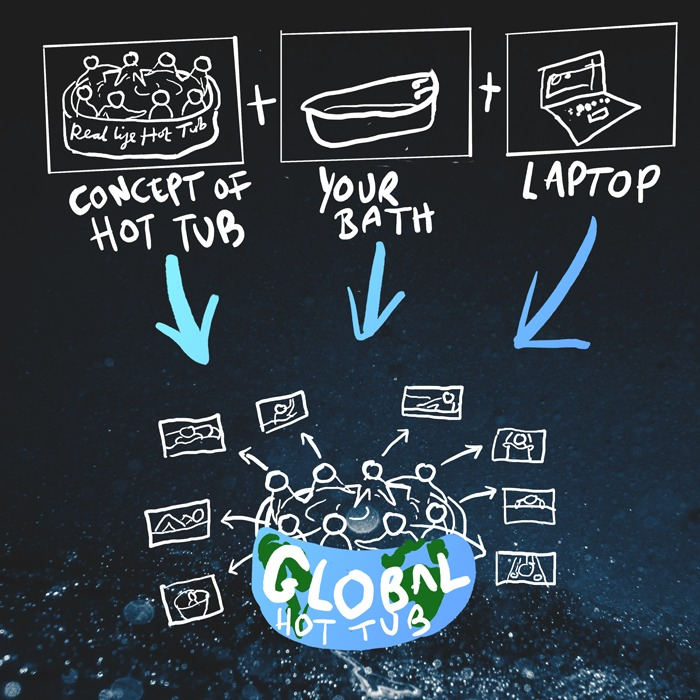
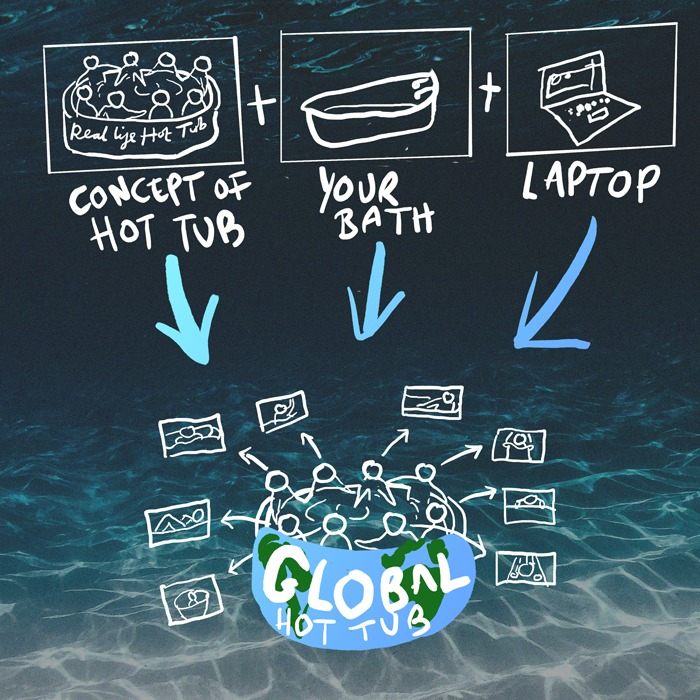
Add About Us page and new imagery

diff --git a/src/pages/SparkleSpaceMarketingPage/AboutUsPage/AboutUsPage.tsx b/src/pages/SparkleSpaceMarketingPage/AboutUsPage/AboutUsPage.tsx
@@ -1,0 +1,54 @@
+import React from "react";
+import "./AboutUsPage.scss";
+
+const AboutUsPage: React.FunctionComponent = () => {
+  return (
+    <div className="about-us-container">
+      <div>
+        <p className="hero-text">About the SparkleVerse team</p>
+        <p>
+          We’re an ever-expanding group of Burners and enthusiasts for
+          avant-garde online experiences. We met each other at criss-crossing
+          online parties, <a href="https://co-reality.co/">collectivised</a>,
+          and we’ve shared adventures, became friends, and have been organising
+          and helping others organise parties throughout the lockdown.
+        </p>
+        <p>
+          We invite you to join a fresh, and expanding SparkleVerse community as
+          we build our contribution to the virtual burn ready the beginning of
+          September..
+        </p>
+        <p>Leading on this project are Ed and Chris:</p>
+        <p>
+          <strong>Ed</strong> is a UK based tech entrepreneur, student of memory
+          palaces and amateur philosopher of parties. You can hear some of his
+          thoughts on Burning Man in{" "}
+          <a href="https://www.youtube.com/watch?v=4Ku4E2MXp-k">
+            this fragment
+          </a>{" "}
+          of a podcast recorded with Tim Ferriss. He’s helping with the product
+          and community sides of the project.
+        </p>
+        <p>
+          <strong>Chris</strong> is an Australian computer scientist who has
+          spent 15 years in tech, and has for the last seven years been working
+          as an Engineering Manager at two of Silicon Valley’s fastest growing
+          private startups. A serial burner and enthusiast for fun, he’s looking
+          after the tech platform.
+        </p>
+      </div>
+      <button
+        className="btn btn-primary btn-block btn-centered help-build-button"
+        onClick={() =>
+          window.open(
+            "https://docs.google.com/forms/d/e/1FAIpQLSeGGsafBOnO63GOiPjBhIdFaEqoM0xBSERdkTEqh3DrPteQvw/viewform"
+          )
+        }
+      >
+        Help build the SparkleVerse
+      </button>
+    </div>
+  );
+};
+
+export default AboutUsPage;

diff --git a/src/pages/SparkleSpaceMarketingPage/SparkleSpaceMarketingPage.tsx b/src/pages/SparkleSpaceMarketingPage/SparkleSpaceMarketingPage.tsx
@@ -4,6 +4,7 @@ import { MARKETING_PAGE_TABS } from "./constants";
 import "./SparkleSpaceMarketingPage.scss";
 import WelcomePage from "./WelcomePage";
 import FAQPage from "./FAQPage";
+import AboutUsPage from "./AboutUsPage";
 
 const SparkleSpaceMarketingPage = () => {
   const [selectedTab, setSelectedTab] = useState("welcome");
@@ -17,6 +18,7 @@ const SparkleSpaceMarketingPage = () => {
 
       {selectedTab === "welcome" && <WelcomePage />}
       {selectedTab === "faq" && <FAQPage />}
+      {selectedTab === "aboutUs" && <AboutUsPage />}
     </div>
   );
 };

diff --git a/src/pages/SparkleSpaceMarketingPage/constants.ts b/src/pages/SparkleSpaceMarketingPage/constants.ts
@@ -7,10 +7,10 @@ export const MARKETING_PAGE_TABS = [
     id: "faq",
     name: "FAQ",
   },
-  {
-    id: "partyExamples",
-    name: "Party examples",
-  },
+  // {
+  //   id: "partyExamples",
+  //   name: "Party examples",
+  // },
   {
     id: "aboutUs",
     name: "About us",

diff --git a/src/pages/SparkleSpaceMarketingPage/AboutUsPage/AboutUsPage.scss b/src/pages/SparkleSpaceMarketingPage/AboutUsPage/AboutUsPage.scss
@@ -1,0 +1,8 @@
+.about-us-container {
+  text-align: left;
+
+  .hero-text {
+    text-align: center;
+    margin-bottom: 20px;
+  }
+}

diff --git a/src/pages/SparkleSpaceMarketingPage/AboutUsPage/index.ts b/src/pages/SparkleSpaceMarketingPage/AboutUsPage/index.ts
@@ -1,0 +1,1 @@
+export { default } from "./AboutUsPage";
